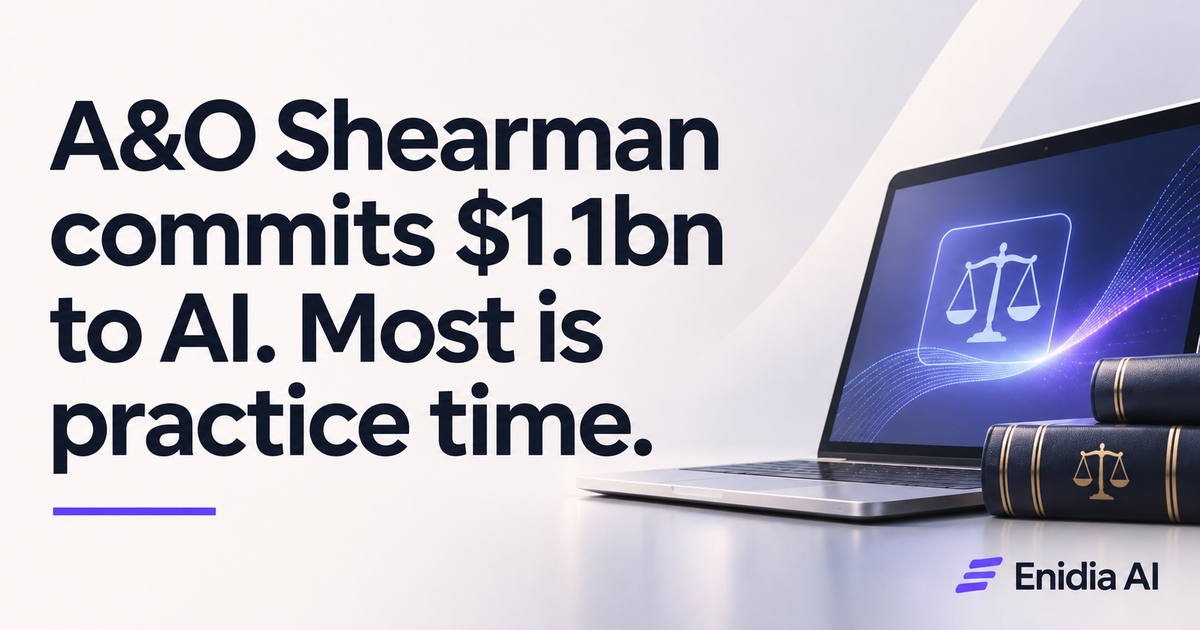
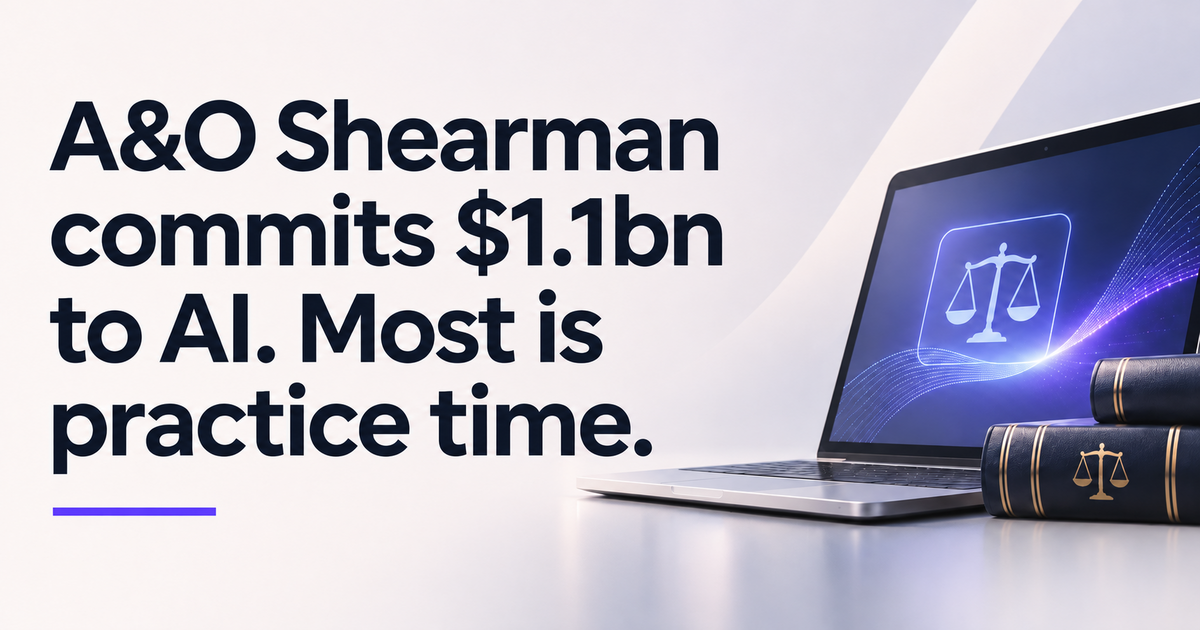
Fix A&O image branding and add email versus robot blog illustration

diff --git a/blog/ai-email.html b/blog/ai-email.html
@@ -20,10 +20,13 @@
   <meta property="og:title" content="Is an email service the same as AI service?" />
   <meta property="og:description" content="Cloud email and cloud AI raise different questions about data processing, professional secrecy and control. Why Enidia keeps lawyers in control of legal AI." />
   <meta property="og:url" content="https://enidia.ai/blog/ai-email.html" />
-  <meta property="og:image" content="https://enidia.ai/assets/img/logo.png" />
+  <meta property="og:image" content="https://enidia.ai/assets/img/blog/email-vs-ai-1200x630.png" />
+  <meta property="og:image:alt" content="An orange email envelope versus a blue robot on a pale background." />
+  <meta property="og:image:width" content="1200" />
+  <meta property="og:image:height" content="630" />
   <meta property="article:published_time" content="2026-11-27" />
   <meta property="article:modified_time" content="2026-11-27" />
-  <meta name="twitter:card" content="summary" />
+  <meta name="twitter:card" content="summary_large_image" />
   <link rel="icon" href="/assets/img/favicon.png" />
   <link rel="stylesheet" href="/assets/css/fonts.css">
   <link rel="stylesheet" href="/assets/css/enidia.css">
@@ -48,7 +51,7 @@
       "url": "https://enidia.ai/assets/img/logo.png"
     }
   },
-  "image": "https://enidia.ai/assets/img/logo.png",
+  "image": "https://enidia.ai/assets/img/blog/email-vs-ai-1200x630.png",
   "mainEntityOfPage": "https://enidia.ai/blog/ai-email.html"
 }
   </script>
@@ -90,6 +93,8 @@
       <strong>Enidia AI</strong><br/>
       November 27, 2026
     </div>
+
+    <figure class="doc-photo"><img src="/assets/img/blog/email-vs-ai-1200x630.png" alt="An orange email envelope versus a blue robot on a pale background." width="1200" height="630" /></figure>
 
     <p>There’s a discussion about how legal teams approach AI services, specifically if there’s a difference between using Gmail or Outlook and using some cloud-based legal AI tool. Since lawyers already use cloud based email for years, why would they hesitate to use AI services sitting in the cloud?</p>
 

diff --git a/blog/index.html b/blog/index.html
@@ -66,6 +66,7 @@
       </div>
       <div class="posts" id="posts">
         <article class="post" data-date="2026-11-27">
+          <a href="/blog/ai-email.html"><img src="/assets/img/blog/email-vs-ai-1200x630.png" alt="An orange email envelope versus a blue robot on a pale background." style="object-fit:contain" loading="lazy" /></a>
           <div class="body">
             <p class="date">November 27, 2026</p>
             <h3><a href="/blog/ai-email.html">Is an email service the same as AI service?</a></h3>
